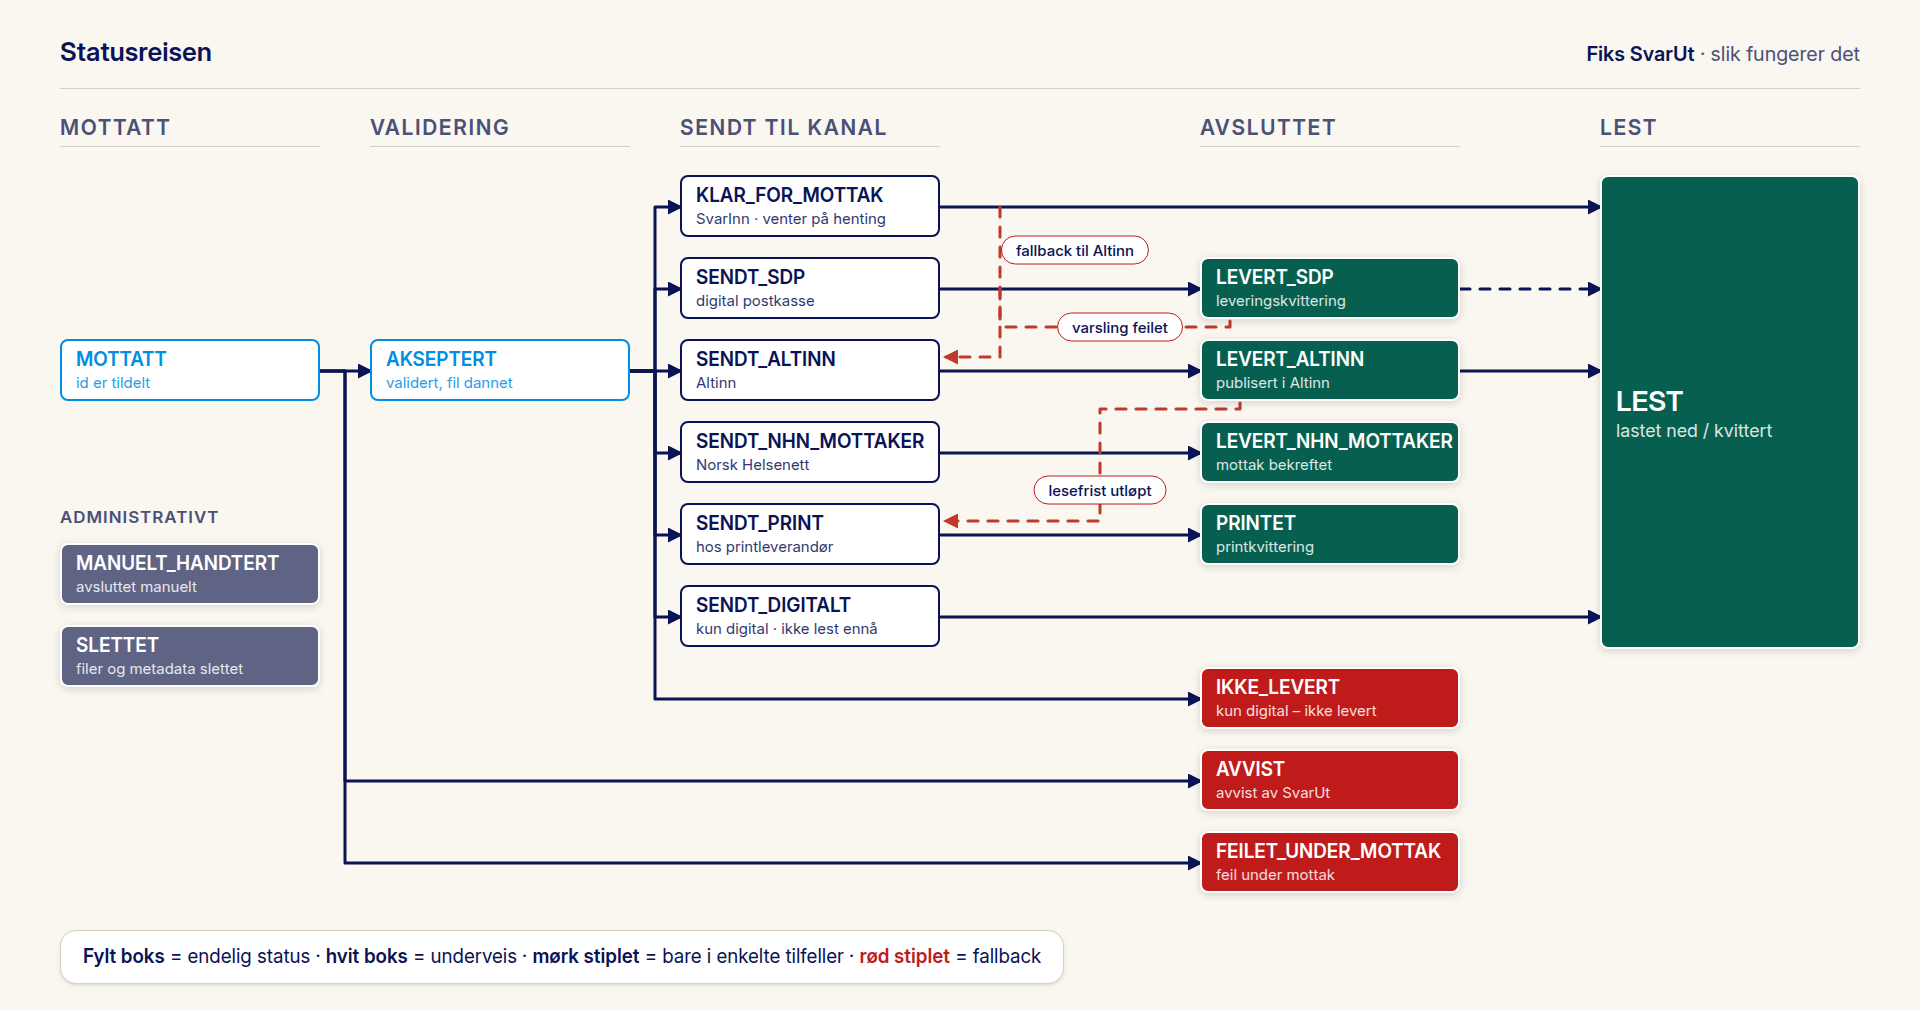
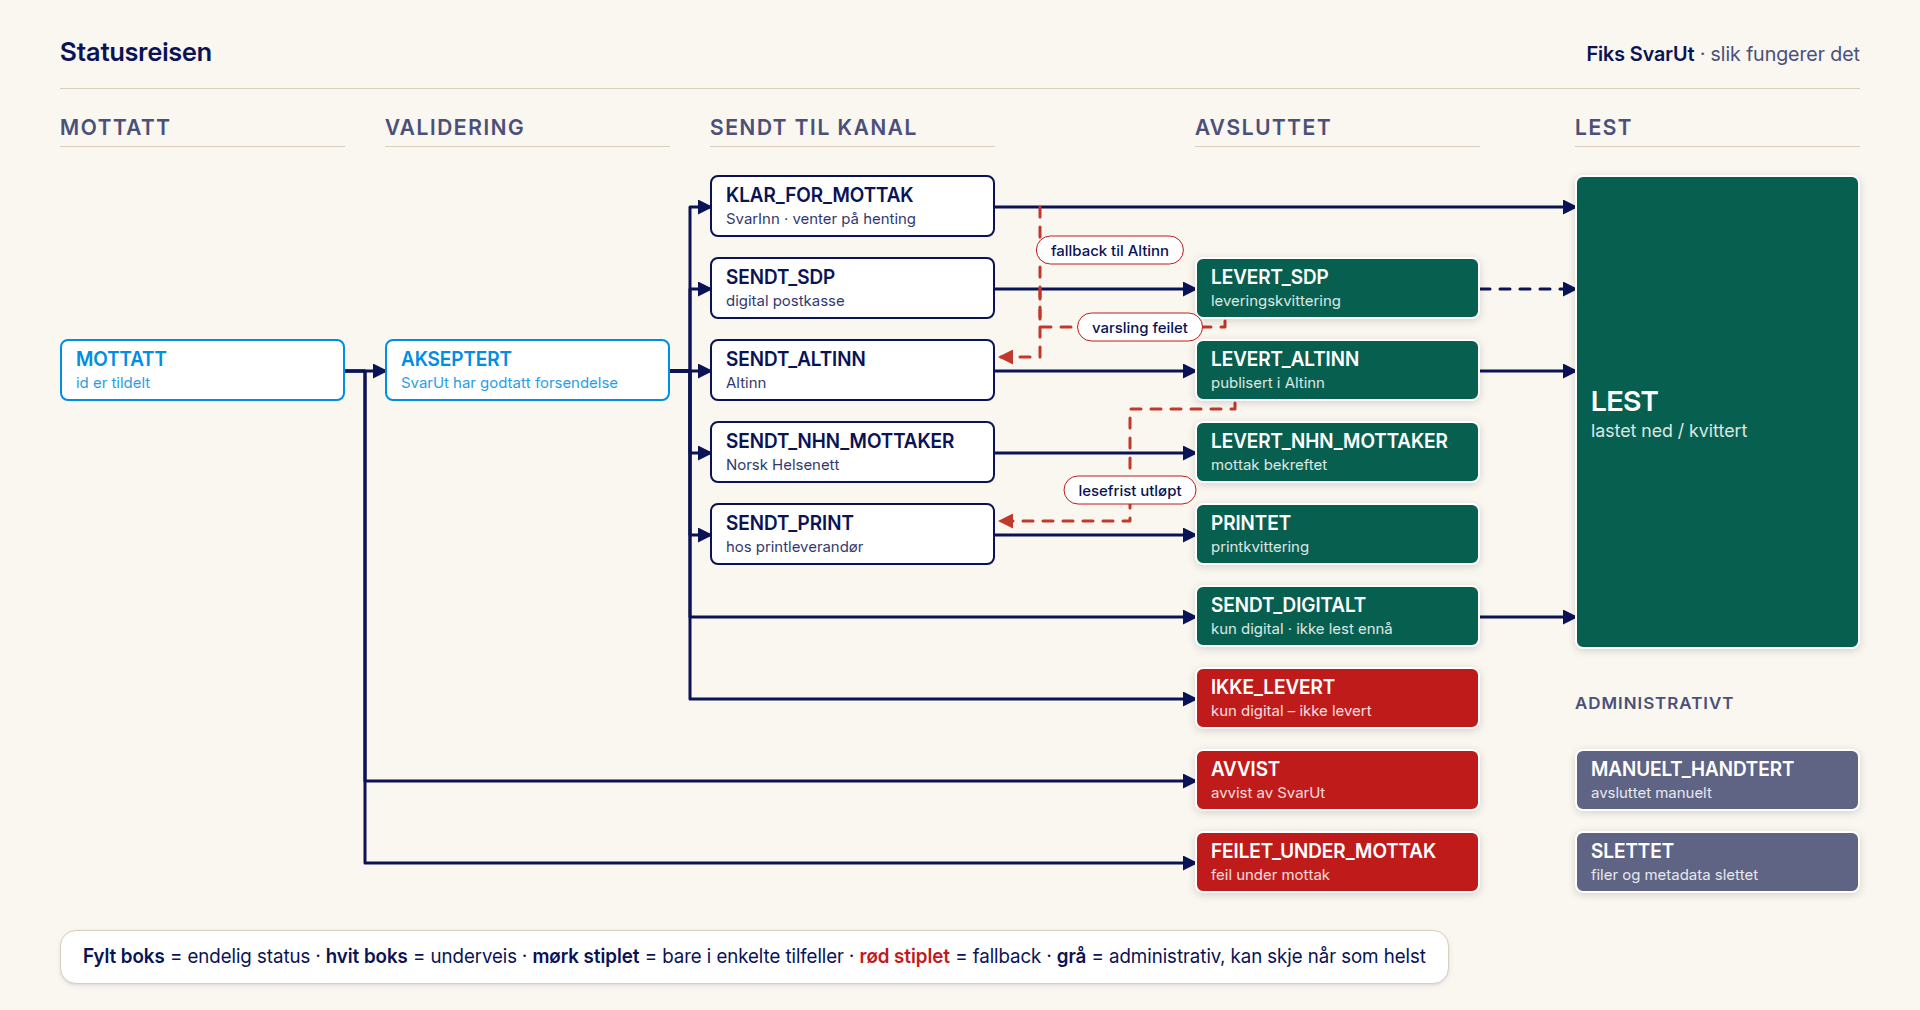
Oppdaterer bilder og tekst

diff --git a/content/Tjenester/svarut/sende/status.md b/content/Tjenester/svarut/sende/status.md
@@ -34,7 +34,7 @@ En forsendelse går gjennom flere statuser fra den blir mottatt til den har nåd
 | `SENDT_SDP` | Sendt til digital postkasse (Digipost eller e-Boks). | Nei |
 | `LEVERT_SDP` | Digital postkasse har bekreftet levering. | I praksis ja. Kan bli `LEST`. Kan også bli videresendt til Altinn eller Print dersom varsling av mottaker i de digitale postkassene feiler.  |
 | `SENDT_ALTINN` | Sendt til Altinn. | Nei |
-| `LEVERT_ALTINN` | Publisert i Altinn. | Nei |
+| `LEVERT_ALTINN` | Publisert i Altinn. | Nei. Blir LEST, eller går til print når lesefrist er utløpt. For post til virksomheter der SvarUt-konto har skrudd av automatisk ettersending, blir den stående. |
 | `SENDT_NHN_MOTTAKER` | Sendt til Norsk Helsenett. Mottakeren har ikke bekreftet ennå. | Nei |
 | `LEVERT_NHN_MOTTAKER` | Mottakeren i Norsk Helsenett har bekreftet mottak. | Ja |
 | `SENDT_DIGITALT` | Sendt digitalt med `kunDigitalLevering`, men ikke lest ennå. | I praksis ja. Kan bli `LEST`. |
